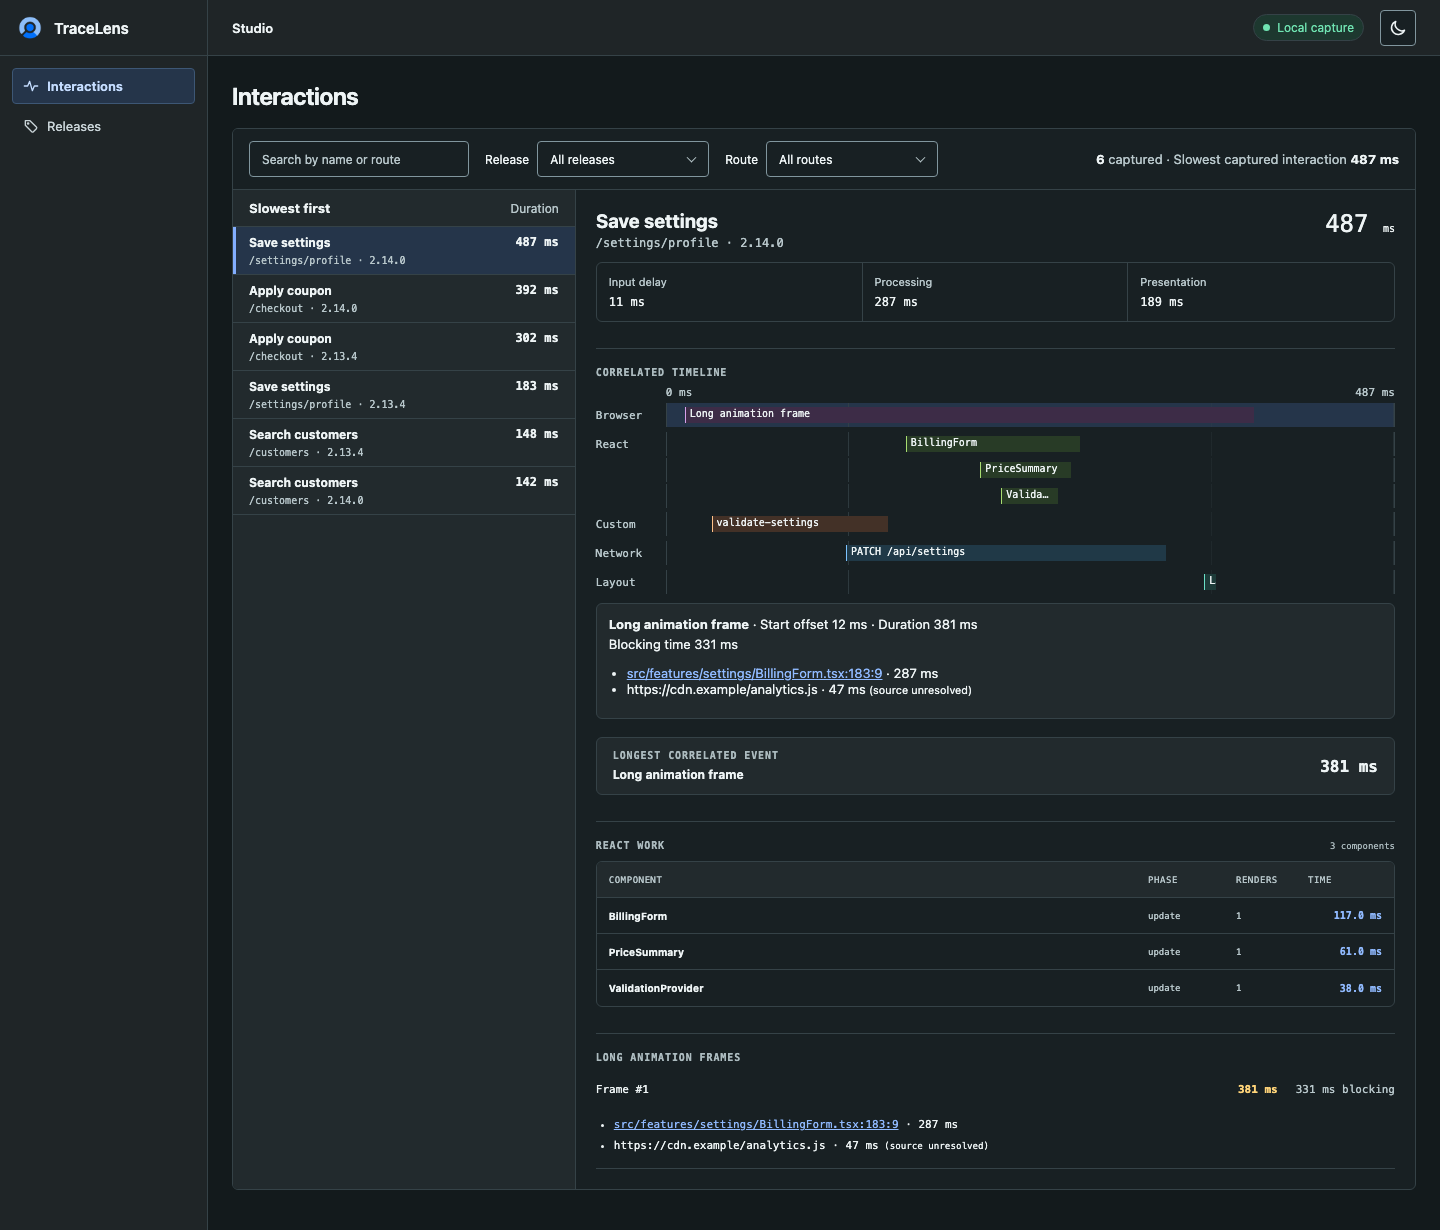
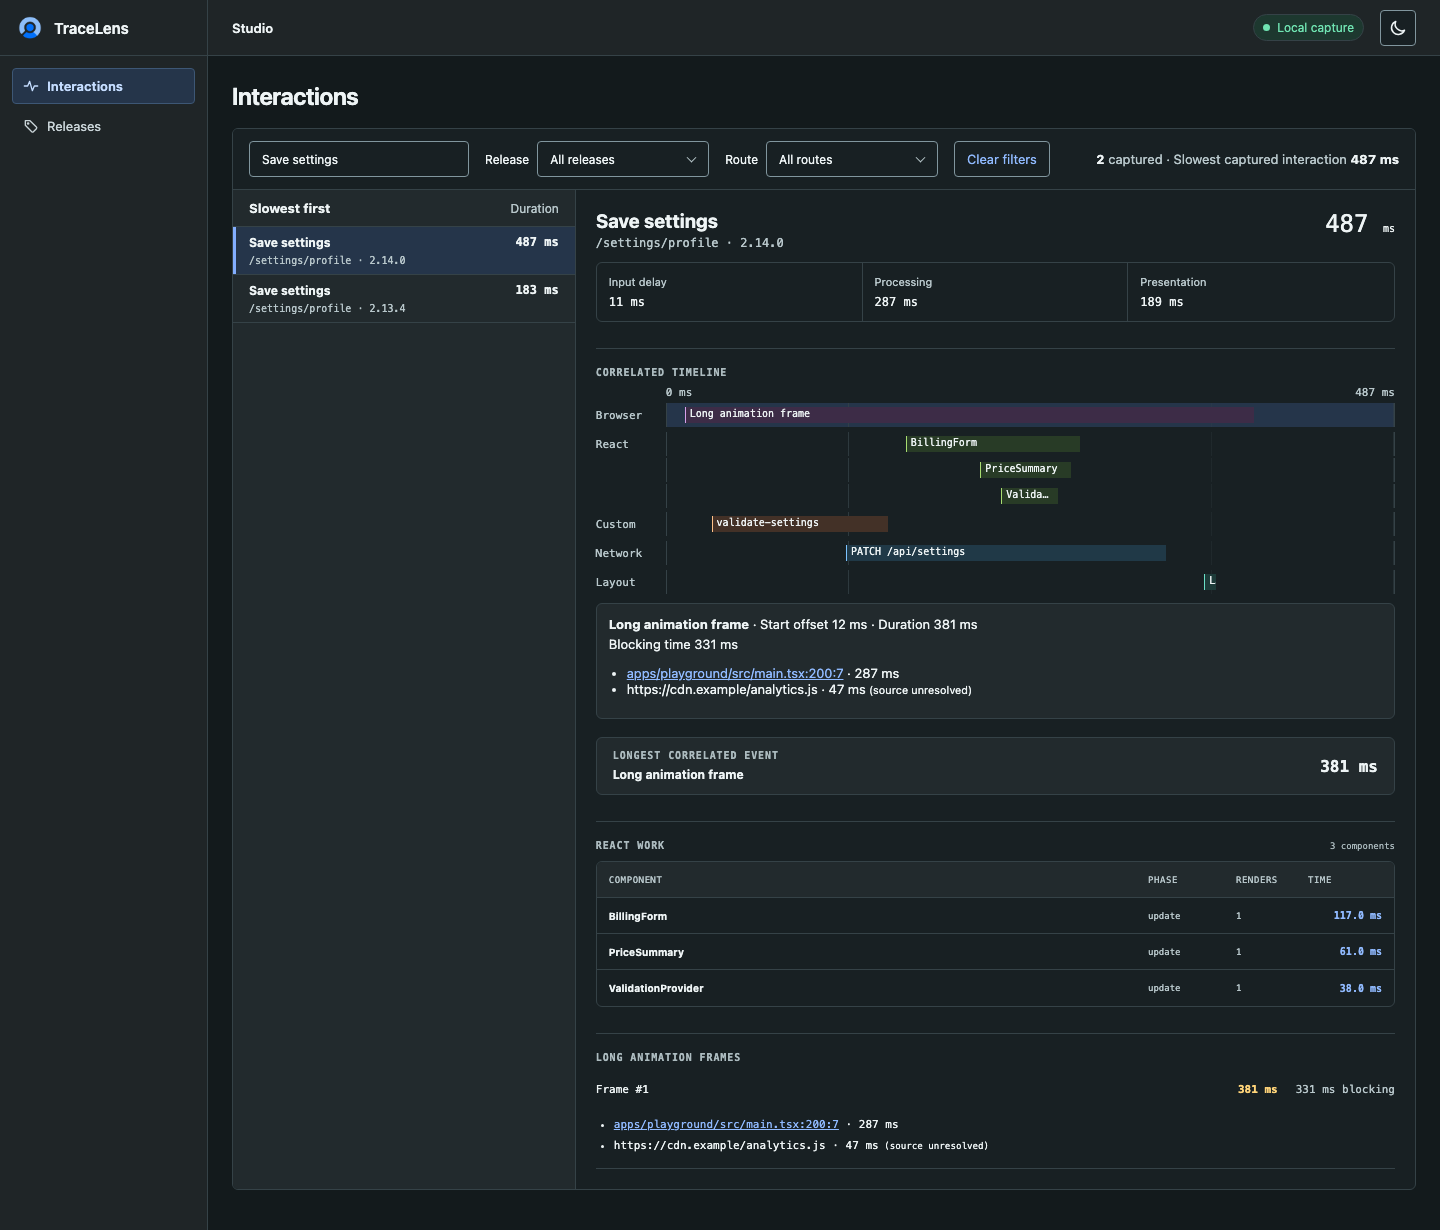
Show the current Studio workflow in README and docs

diff --git a/docs/guides/performance-debugging-walkthrough.md b/docs/guides/performance-debugging-walkthrough.md
@@ -16,11 +16,11 @@ Open Playground at `http://localhost:4174` and use **Open Studio** to open the l
 
 ## Reproduce one controlled failure
 
-Choose **Settings save**, set **Load intensity** to `1×`, and click **Save settings**. Open **Interactions** in Studio, search for the action name or route, and narrow the list further with **Release** and **Route** if needed, and choose **Save settings**. The list is sorted by duration.
+Choose **Settings save**, set **Load intensity** to `1×`, and click **Save settings**. In Studio, open **Interactions** and search for **Save settings**. Use **Release** or **Route** to narrow the results, then select a capture. The list is sorted by duration.
 
-![TraceLens Studio showing the Save settings interaction and its correlated work](../assets/studio-interaction.png)
+![TraceLens Studio filtered to Save settings, with the 487 ms interaction selected and its long-frame source evidence open](../assets/studio-interaction.png)
 
-In the synthetic example below, the interaction takes 487 ms. Use the timing split to decide which evidence to inspect first.
+In the synthetic example above, the interaction takes 487 ms. Use the timing split to decide which evidence to inspect first.
 
 | Subpart      | Question                                               | Typical next move                                            |
 | ------------ | ------------------------------------------------------ | ------------------------------------------------------------ |
@@ -64,14 +64,18 @@ Capture representative baseline and candidate samples with stable `app`, `enviro
 
 Open **Releases**, choose **Baseline** and **Candidate**, and scan the interaction, route, and component deltas. Select **View captures** on an interaction or route row to inspect the matching candidate captures. Use **Back to comparison** to return to the same row and release pair. The comparison reports the observed samples and the Studio threshold.
 
+![TraceLens Releases comparing builds 2.13.4 and 2.14.0 and showing the Save settings regression](../assets/studio-release-comparison.png)
+
+The matching **Release captures** view shows the candidate version and route above the capture list. Select the **Browser** event to reopen the source-linked evidence.
+
+![Candidate 2.14.0 Save settings capture with its source link and Back to comparison control](../assets/studio-release-captures.png)
+
 To compare exported captures from the command line, run this command.
 
 ```bash
 npx @leracherry/tracelens-cli@1.1.0 compare 2.13.4 2.14.0 \
   --file trace.json
 ```
-
-![TraceLens ReleaseScope comparing two releases](../assets/studio-release-comparison.png)
 
 ## Prevent the regression
 
@@ -107,6 +111,6 @@ Then move the same check into the [GitHub Action](github-action.md). Insufficien
 
 A good TraceLens investigation ends with a falsifiable statement, not merely a red score:
 
-> Save settings regressed in 2.14.0 because `validateSettings` added roughly 280 ms of first-party synchronous work inside the interaction's processing interval. The PATCH completed later and was correlated, but did not account for the INP delay.
+> Save settings took 487 ms in 2.14.0, up from 183 ms. The selected long frame attributes 287 ms to first-party work in `saveSettings`. Isolate the serialization step and repeat the capture to test whether it drives the regression.
 
 That statement tells an engineer what to change, what not to blame, and which budget will catch a recurrence.

diff --git a/README.md b/README.md
@@ -28,8 +28,10 @@
 </p>
 
 <p align="center">
-  <img src="docs/assets/studio-demo.gif" alt="TraceLens Studio tour showing a release regression, its matching capture, and the long-frame evidence" width="1120" />
+  <img src="docs/assets/studio-demo.gif" alt="TraceLens Studio tour showing capture search, source-linked timeline evidence, release comparison, and the candidate capture" width="1120" />
 </p>
+
+<p align="center"><sub>Search → inspect source evidence → compare releases → open the candidate capture. Recorded from Studio in dark mode with synthetic telemetry.</sub></p>
 
 TraceLens turns browser telemetry into an explanation. Start with a slow interaction, follow the browser, React, network, layout, and custom work that overlapped it, map expensive scripts back to source, and compare the same signal across releases.
 
@@ -141,7 +143,9 @@ flowchart LR
 
 ReleaseScope compares p75 values across captured builds. Choose a **Baseline** and **Candidate**, then select **View captures** on an interaction or route row to inspect matching candidate evidence. **Back to comparison** restores the release pair and row.
 
-![TraceLens ReleaseScope comparing releases with INP, LCP, long-frame, interaction, route, and component deltas](docs/assets/studio-release-comparison.png)
+![TraceLens Releases showing Baseline 2.13.4, Candidate 2.14.0, and View captures beside the Save settings regression](docs/assets/studio-release-comparison.png)
+
+[See the candidate capture after selecting View captures](docs/assets/studio-release-captures.png).
 
 ```bash
 npx @leracherry/tracelens-cli compare 2.13.4 2.14.0 --file trace.json

diff --git a/CONTRIBUTING.md b/CONTRIBUTING.md
@@ -55,7 +55,7 @@ The Studio quality command runs end-to-end keyboard, accessibility, offline-stat
 
 Install Playwright Chromium with `pnpm exec playwright install chromium`. Run `pnpm docs:capture` for screenshots, or install FFmpeg and run `pnpm docs:demo` for screenshots plus the GIF tour. FFmpeg must be on `PATH`; it is only needed for the animated capture, not normal builds or tests.
 
-`scripts/capture-readme.mjs` starts a loopback-only collector on an ephemeral port, seeds synthetic telemetry, and captures the built Studio UI in dark mode. The tour shows a release regression, the matching Save settings capture, and its long-frame evidence. Each step stays visible for three seconds. It writes `docs/assets/studio-*.png` and `docs/assets/studio-demo.gif`; inspect the images before committing. Keep a static alternative for readers who prefer no animation. Update the fixture when the UI changes rather than retouching product screenshots.
+`scripts/capture-readme.mjs` starts a loopback-only collector on an ephemeral port, seeds synthetic telemetry, and captures the built Studio UI in dark mode. The tour shows a search for Save settings, its long-frame evidence, the release comparison, and the candidate capture. Each step stays visible for three seconds. It writes `docs/assets/studio-*.png` and `docs/assets/studio-demo.gif`; inspect the images before committing. Keep a static alternative for readers who prefer no animation. Update the fixture when the UI changes rather than retouching product screenshots.
 
 ## Documentation and releases
 

diff --git a/docs/index.md b/docs/index.md
@@ -54,10 +54,10 @@ npx @leracherry/tracelens-cli@1.1.0 studio
 
 [Instrument the browser →](./guides/browser-instrumentation.md)
 
-::: details Watch the nine-second Studio tour
-![Studio demo: release regression, matching Save settings capture, and long-frame evidence](./assets/studio-demo.gif)
+::: details Watch the 12-second Studio tour
+![Studio demo: search for Save settings, inspect source-linked evidence, compare releases, and open the candidate capture](./assets/studio-demo.gif)
 
-Captured from the real Studio UI using synthetic telemetry. Each view is held for three seconds. Collapse this section to hide the animation; the image above is a static alternative. [Reproduce the capture](https://github.com/leracherry/tracelens/blob/main/CONTRIBUTING.md#product-screenshots-and-demo).
+Recorded from Studio in dark mode with synthetic telemetry. Search for **Save settings**, open its long-frame source evidence, compare releases, then use **View captures** to open the candidate interaction. Collapse this section to hide the animation; the image above is a static alternative. [Reproduce the capture](https://github.com/leracherry/tracelens/blob/main/CONTRIBUTING.md#product-screenshots-and-demo).
 :::
 
 [Contribute](https://github.com/leracherry/tracelens/blob/main/CONTRIBUTING.md) · [Code of Conduct](https://github.com/leracherry/tracelens/blob/main/CODE_OF_CONDUCT.md) · [Report a vulnerability privately](https://github.com/leracherry/tracelens/security/advisories/new)

diff --git a/docs/guides/releases.md b/docs/guides/releases.md
@@ -4,6 +4,10 @@ Capture two application builds with different `release` values in the same runni
 
 The view shows sample counts, INP p75, LCP p75, long frames per session, and deltas for routes, interactions, and React components. **View captures** on an interaction or route opens the matching candidate captures. **Back to comparison** returns to the same row and keeps the selected release pair.
 
+![Releases with baseline and candidate builds and View captures in the evidence column](../assets/studio-release-comparison.png)
+
+![Release captures scoped to candidate 2.14.0, with Back to comparison above the results](../assets/studio-release-captures.png)
+
 ```bash
 npx @leracherry/tracelens-cli compare 1.0.0 1.1.0
 npx @leracherry/tracelens-cli compare 1.0.0 1.1.0 --file trace.json
